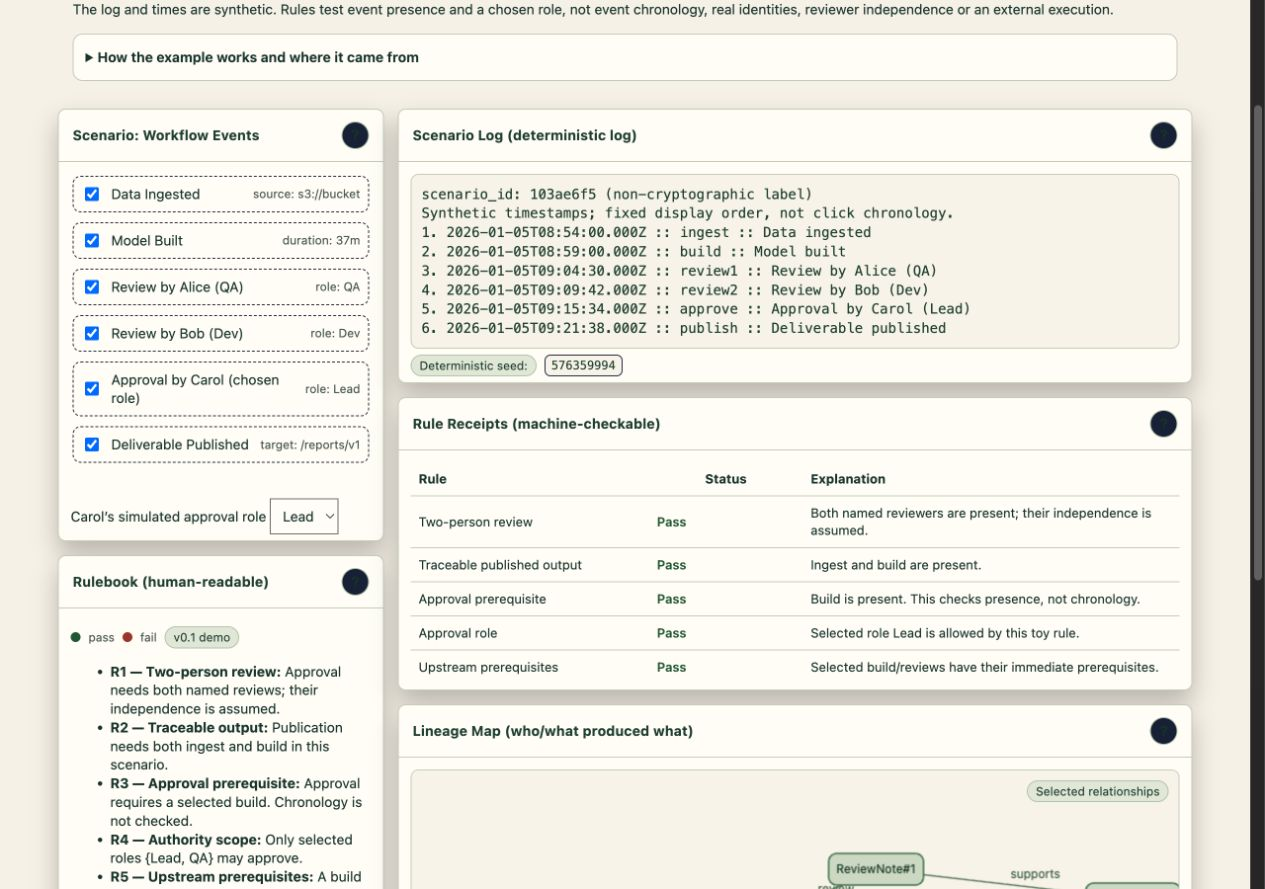
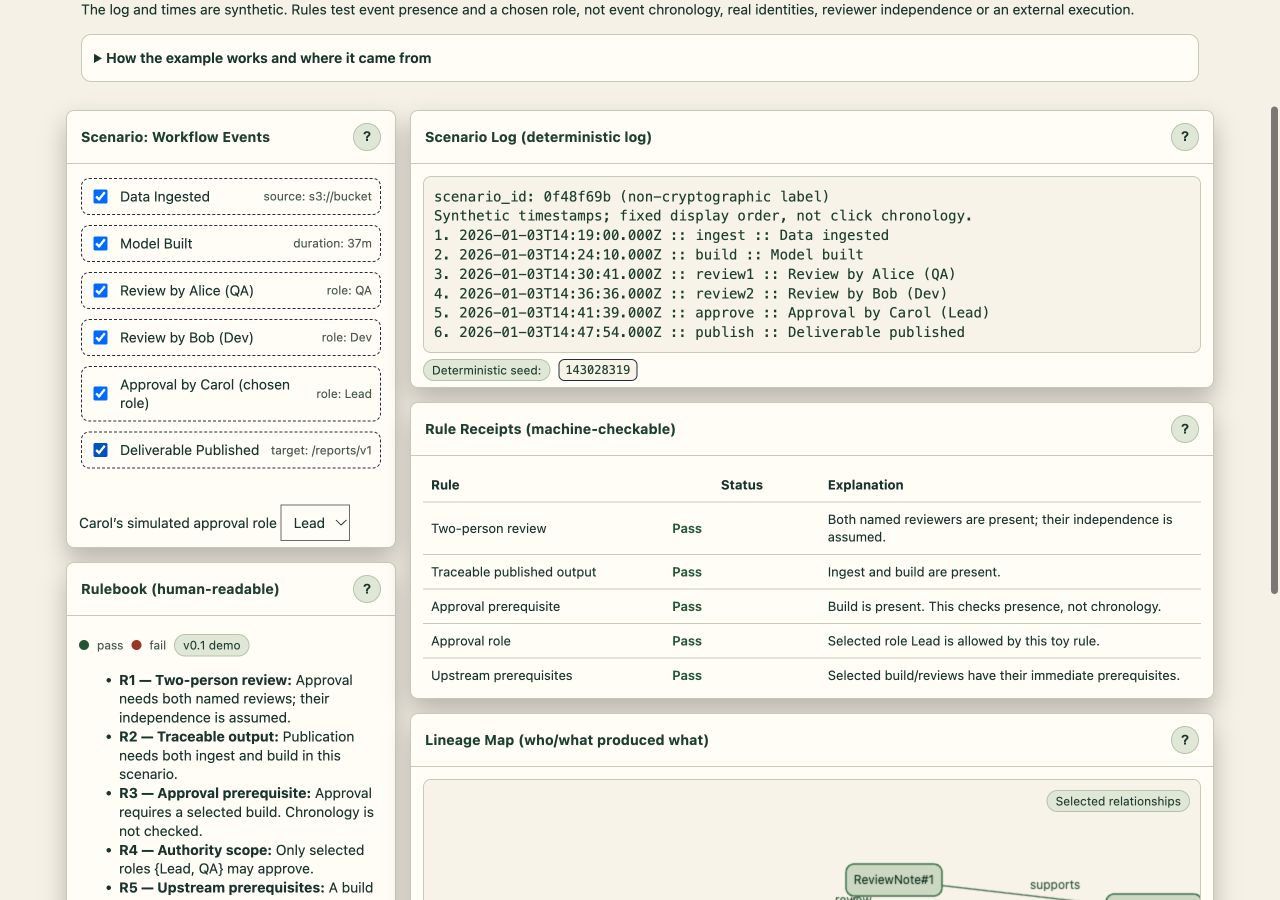
Keep intent edits focused and discard stale file loads

diff --git a/library/apps/intent-field-navigator/app.js b/library/apps/intent-field-navigator/app.js
@@ -113,11 +113,25 @@
     }
 
     // ------------------------ CSV ingestion ------------------------
-    async function loadCSVs(files){
-      const texts=await Promise.all([files.intents.text(),files.work.text(),files.outcomes?files.outcomes.text():null]);
-      const data=prepareData(parseCSV(texts[0]),parseCSV(texts[1]),texts[2]===null?[]:parseCSV(texts[2]));
+    let latestLoadRequest = 0;
+    async function loadCSVs(files, {successMessage, errorPrefix = 'Load failed'} = {}){
+      const request = ++latestLoadRequest;
+      status('Loading CSVs…');
+      let data;
+      try {
+        const texts=await Promise.all([files.intents.text(),files.work.text(),files.outcomes?files.outcomes.text():null]);
+        if(request !== latestLoadRequest) return false;
+        data=prepareData(parseCSV(texts[0]),parseCSV(texts[1]),texts[2]===null?[]:parseCSV(texts[2]));
+      } catch(error) {
+        // A newer choice owns both the displayed data and its load status.
+        if(request !== latestLoadRequest) return false;
+        status(`${errorPrefix}: ${error.message} Previous data is unchanged.`);
+        throw error;
+      }
       Object.assign(State,data);State.baselineWeights=State.intents.map(x=>x.target_weight);State.learningApplied=false;
-      renderIntentSliders();computeAll();status(`Loaded ${State.items.length} work items and ${State.intents.filter(x=>x.active).length} active intents.`);
+      renderIntentSliders();computeAll();
+      status(successMessage ?? `Loaded ${State.items.length} work items and ${State.intents.filter(x=>x.active).length} active intents.`);
+      return true;
     }
     function normalizeIntentWeights(){const active=State.intents.filter(x=>x.active);if(!active.length)throw new Error('At least one active intent is needed.');if(active.some(x=>!Number.isFinite(x.target_weight)||x.target_weight<0))throw new Error('Every target share must be finite and nonnegative.');const sum=active.reduce((s,x)=>s+x.target_weight,0);if(!Number.isFinite(sum))throw new Error('Target shares are too large.');for(const x of active)x.target_weight=sum?x.target_weight/sum:1/active.length;}
 
@@ -405,6 +419,19 @@
       });
     }
 
+    function intentSliderLabel(it) {
+      return `<strong>${escapeHTML(it.name)}</strong> <span class="small muted">(${escapeHTML(it.intent_id)})</span> <span class="small">target_weight: ${(it.target_weight*100).toFixed(1)}%</span>`;
+    }
+
+    function syncIntentSliders() {
+      // Keep the live inputs attached so keyboard focus and pointer gestures survive.
+      for(const it of State.intents.filter(x=>x.active)) {
+        const slider = State.sliders[it.intent_id];
+        slider.value = Math.round(it.target_weight*100);
+        slider.previousElementSibling.innerHTML = intentSliderLabel(it);
+      }
+    }
+
     function renderIntentSliders() {
       const wrap = document.getElementById('intentSliders');
       wrap.innerHTML = '';
@@ -414,14 +441,13 @@
         const div = document.createElement('div');
         div.className = 'intent-slider';
         const lab = document.createElement('div');
-        lab.innerHTML = `<strong>${escapeHTML(it.name)}</strong> <span class="small muted">(${escapeHTML(it.intent_id)})</span> <span class="small">target_weight: ${(it.target_weight*100).toFixed(1)}%</span>`;
+        lab.innerHTML = intentSliderLabel(it);
         const slider = document.createElement('input');
         slider.setAttribute("aria-label", `Target share for ${it.name}`);
         slider.type = 'range'; slider.min = 0; slider.max = 100; slider.value = Math.round(it.target_weight*100);
         slider.oninput = (e) => {
           const val = parseInt(e.target.value,10)/100;
           it.target_weight = val;
-          // renormalize across all active on slide end?
         };
         slider.onchange = (e) => {
           // Renormalize all active after user change
@@ -429,7 +455,7 @@
           let s=0; for (const k of act) s += k.target_weight;
           if (s<=0){ const u=1/act.length; for (const k of act) k.target_weight = u; }
           else for (const k of act) k.target_weight /= s;
-          renderIntentSliders();computeAll();status("Target shares changed; matches are unchanged, comparison and exports updated.");
+          syncIntentSliders();computeAll();status("Target shares changed; matches are unchanged, comparison and exports updated.");
         };
         div.appendChild(lab); div.appendChild(slider);
         wrap.appendChild(div);
@@ -684,15 +710,22 @@
         alert("Please choose intents.csv and work_items.csv; outcomes.csv is optional.");
         return;
       }
-      try{await loadCSVs({intents:intentsFile, work:workFile, outcomes:outcomesFile});}catch(err){status("Load failed: "+err.message+" Previous data is unchanged.");}
+      try{await loadCSVs({intents:intentsFile, work:workFile, outcomes:outcomesFile});}catch{/* The current request has already reported its validation/read error. */}
     });
 
     document.getElementById('demoBtn').addEventListener('click', async ()=>{
       const files = demoCSVs();
-      try{await loadCSVs(files);}catch(err){status("Demo failed: "+err.message);}
+      try{await loadCSVs(files,{errorPrefix:'Demo failed'});}catch{/* Reported by the current load request. */}
     });
 
-    document.getElementById('boundaryDemoBtn').addEventListener('click',async()=>{try{await loadCSVs(boundaryCSVs());status('Boundary example: MIX has two equal matches, NONE stays unallocated, and ZERO contributes no effort. Candidate moves are independent alternatives.');}catch(err){status('Demo failed: '+err.message);}});
+    document.getElementById('boundaryDemoBtn').addEventListener('click',async()=>{
+      try {
+        await loadCSVs(boundaryCSVs(), {
+          errorPrefix:'Demo failed',
+          successMessage:'Boundary example: MIX has two equal matches, NONE stays unallocated, and ZERO contributes no effort. Candidate moves are independent alternatives.'
+        });
+      } catch {/* Reported by the current load request. */}
+    });
     document.getElementById('recomputeBtn').addEventListener('click', ()=>{
       computeAll();
     });

diff --git a/library/apps/governance-trio/index.html b/library/apps/governance-trio/index.html
@@ -71,6 +71,7 @@
     .actions{justify-content:flex-start}
   }
 nav,.orientation,#status,.shareLabel,#shareLink{margin:12px auto;max-width:1150px}nav,.orientation,#status,.shareLabel{padding:0 16px}nav a{color:#285a3b}.orientation{line-height:1.55}.orientation details{padding:12px;background:#fffdf7;border:1px solid #cbd2bf;border-radius:10px}summary{cursor:pointer;font-weight:650}.footer{position:static}main{padding-bottom:16px}main>*,.grid,.card,.pane{min-width:0}pre{white-space:pre-wrap;overflow-wrap:anywhere}#graph{min-width:820px}#shareLink{display:block;width:calc(100% - 32px);padding:10px;border:1px solid #becbb5}.shareLabel{display:block}select{font:inherit;padding:8px;background:#fffdf7;color:#193b32}button:focus-visible,a:focus-visible,input:focus-visible,select:focus-visible{outline:3px solid #93641a;outline-offset:3px}.modalOverlay{border:0;width:min(650px,calc(100% - 24px));max-height:90vh;padding:0;background:transparent}.modalOverlay:not([open]){display:none}.modalOverlay::backdrop{background:#193b3270}.modal{width:100%;max-height:none}.na{color:#5a6459}header h1{font-size:clamp(1.3rem,3vw,1.8rem)}.titlebar{align-items:flex-start}th,td{overflow-wrap:anywhere}.rules table{table-layout:fixed}.rules th:first-child{width:31%}.rules th:nth-child(2){width:20%}@media(max-width:600px){main{grid-template-columns:minmax(0,1fr)}.rules th,.rules td{padding:6px;font-size:12px}}
+.iconBtn{background:#e5eadc;color:#173b2a;border-color:#bacbb5}.iconBtn:hover{background:#d2ddc8;color:#173b2a;border-color:#477956}
 </style>
 <link rel="canonical" href="https://lawrencerowland.github.io/library/apps/governance-trio/">
 </head>

diff --git a/library/apps/intent-field-navigator/README.md b/library/apps/intent-field-navigator/README.md
@@ -11,3 +11,5 @@ Rendering uses escaped imported text and labelled controls. Export formula-like 
 Method references: the authors' [term-frequency and weighting chapter](https://nlp.stanford.edu/IR-book/html/htmledition/term-frequency-and-weighting-1.html) and [RFC 4180's CSV quoting conventions](https://www.rfc-editor.org/rfc/rfc4180), checked 2 October 2026. The portfolio heuristics are stated assumptions rather than claims sourced from those documents.
 
 Verification: `node --test tests/eight-data-models.test.cjs`. Browser journeys: demo → inspect matches → edit target → outcome update → reset → export; quoted CSV input; malformed/duplicate/no-active input rejection and prototype-like IDs; no-match and zero-effort rows; mobile charts/tables and keyboard sliders.
+
+Follow-up UI review: target changes now update existing slider controls in place, retaining keyboard focus. Asynchronous imports and both demos share a latest-request guard; older successes, read failures and status messages cannot replace a newer choice, including when the newest choice is invalid. Four actual-page jsdom regressions reproduce these interactions using the existing `tools/library-apps` dependency; the suite now has 20 passing tests. Root browser review also confirmed the narrow-screen page fits at 390px after wrapping long CSV schema text.
